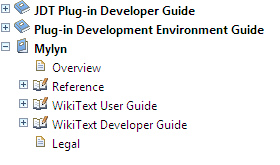
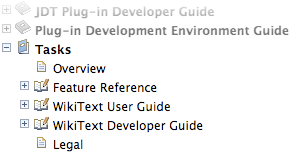
REOPENED - bug 263861: prepare New & Noteworthy for 3.1 https://bugs.eclipse.org/bugs/show_bug.cgi?id=263861

diff --git a/new/new-weekly.html b/new/new-weekly.html
@@ -20,9 +20,9 @@ before installing Mylyn 3.0.</p>
 <p><span style="font-weight: 700; background-color: #E0D0E6">New in Mylyn 3.1</span> </p>
 <ul>
 	<li><a href="#help">Mylyn Help (1)</a></li>
-	<li><a href="#task-list">Task List (4)</a></li>
+	<li><a href="#task-list">Task List (5)</a></li>
 	<li><a href="#task-editor">Task Editor (7)</a></li>
-	<li><a href="#focused-ui">Focused UI (1)</a></li>
+	<li><a href="#task-context">Task Context (1)</a></li>
 	<li><a href="#bugzilla">Bugzilla Connector (4)</a></li>
 	<li><a href="#jira">JIRA Connector (3)</a></li>
 	<li><a href="#wikitext">WikiText (5)</a></li>
@@ -36,7 +36,8 @@ before installing Mylyn 3.0.</p>
 			<p align="right"><b>Mylyn Help Integrated</b></p>
 			</td>
 			<td valign="top" width="70%">
-			<p align="left">The Mylyn wiki is a great source of information for both new users and those building upon or integrating with Mylyn. A snapshot of the online wiki is now included in Mylyn releases and is accessible from the main Eclipse Help index (Help > Help Contents > Mylyn).</p>
+			<p align="left">The Mylyn wiki is a great source of information for both new users and those building upon or integrating with Mylyn. A snapshot of the online wiki is now included in Mylyn releases and is accessible from the main Eclipse Help index (Help > Help Contents > <b>Tasks</b>).</p>
+			<p align="left">The automated inclusion of Mylyn's wiki is possible thanks to <a href="#wikitext">WikiText</a> technology.</p>
 			<p class="MsoPlainText">
 			<img border="0" src="images/3.1/mylyn-help.png"></td>
 		</tr>
@@ -53,7 +54,8 @@ before installing Mylyn 3.0.</p>
 			<p align="right"><b>Mylyn Internationalization</b></p>
 			</td>
 			<td valign="top" width="70%">
-			<p align="left">Mylyn has been internationalized and through the <a href="http://babel.eclipse.org/babel/">Eclipse Babel</a> project, users help translate Mylyn to other languages.</p>
+			<p align="left">Mylyn has been internationalized and through the <a href="http://babel.eclipse.org/babel/">Eclipse Babel</a> project, users can help translate Mylyn to other languages.</p>
+			<p align="left">Visit the <a href="http://babel.eclipse.org/babel/translate.php">Babel translate page</a>, select the target language and under Projects choose <b>tools.mylyn</b>, and then choose the latest version.</p>
 			<p class="MsoPlainText">
 			<img border="0" src="images/3.1/mylyn-i18n.png"></td>
 		</tr>
@@ -97,6 +99,24 @@ before installing Mylyn 3.0.</p>
 			new Local Subtask will be created.</p>
 			<p class="MsoPlainText">
 			<img border="0" src="images/3.1/local-subtasks.png"></td>
+		</tr>
+		<tr>
+			<td colspan="2">
+			<hr>
+			</td>
+		</tr>
+</table>
+
+
+<table cellpadding="10" cellspacing="0" id="table414">
+		<tr>
+			<td align="left" valign="top" width="15%" bgcolor=#E0D0E6>
+			<p align="right"><b>Repository Settings Page</b></p>
+			</td>
+			<td valign="top" width="70%">
+			<p align="left">The Task Repository settings page has been streamlined and now includes a Task Editor Settings section where the <a href="#wikitext">WikiText</a> dialect can be chosen for your Task Editor.</p>
+			<p class="MsoPlainText">
+			<img border="0" src="images/3.1/task-repository-settings-page.png"></td>
 		</tr>
 		<tr>
 			<td colspan="2">
@@ -156,8 +176,8 @@ before installing Mylyn 3.0.</p>
 </p>
 
     <ul>
-    <li> Confluence</li>
-    <li> MediaWiki</li>
+    <li>Confluence</li>
+    <li>MediaWiki</li>
     <li>Textile</li>
     <li>TracWiki</li>
     <li>TWiki</li>
@@ -165,9 +185,11 @@ before installing Mylyn 3.0.</p>
     </ul>
     <p>WikiText is configured on a per Task Repository basis. Choose which language you wish to use from the Editor section of the Task Repository preference page.
     </p>
+    <p align="left">Note also that text in the task editor's description and comment fields
+			will now reflow to fill available space when the editor is resized.</p>
     <p>
     	Once a laungage has been chosen, open a task from the repository and type in a comment using wiki language constructs.  Press the preview button, to see how your comment will appear to others using the WikiText support.
-    	Also note how previous comments are rendered correctly according to the wiki language you specified.  Right click on a comment and select "View Source" to see the comment in plain text.
+    	Also note how previous comments are rendered correctly according to the wiki language you specified.  Right click on a comment and select "View Unformatted Text" to see the comment in plain text.
 			<p class="MsoPlainText">
 			Authoring:<br/>
 			<img border="0" src="images/3.1/wikitext-editor-author.png"></p>
@@ -188,7 +210,7 @@ before installing Mylyn 3.0.</p>
 			<p align="right"><b>Schedule Task Toolbar Button</b></p>
 			</td>
 			<td valign="top" width="70%">
-			<p align="left">Tasks can be scheduled through the Schedule Task button in the Task List toolbar.</p>
+			<p align="left">Tasks can be scheduled through the Schedule Task button in the Task Editor toolbar. The button's default action (which results from pressing the button instead of choosing from the drop down) will schedule the task for Today.</p>
 			<p class="MsoPlainText">
 			<img border="0" src="images/3.1/taskeditor-schedule-for.png"></td>
 		</tr>
@@ -205,45 +227,10 @@ before installing Mylyn 3.0.</p>
 			<p align="right"><b>Add Tasks not in Task List</b></p>
 			</td>
 			<td valign="top" width="70%">
-			<p align="left">When a task is opened that doesn't exists in your Task List (i.e. when opening a search hit in the Search View), a hyperlinked message is displayed in the editor's banner. Click the link to add the task to your Task List.</p>
+			<p align="left">When a task is opened that doesn't exists in your Task List (i.e. when opening a search hit in the Search View), a hyperlinked message is displayed in the editor's banner. Click the link to add the task to the Uncategorized category within your Task List.</p>
+			<p align="left">We recommend adjusting the queries in the task list to encompass all tasks you are interested in so that this doesn't become a standard workflow.</p>
 			<p class="MsoPlainText">
 			<img border="0" src="images/3.1/add-task.png"></td>
-		</tr>
-		<tr>
-			<td colspan="2">
-			<hr>
-			</td>
-		</tr>
-</table>
-
-<table cellpadding="10" cellspacing="0" id="table413">
-		<tr>
-			<td align="left" valign="top" width="15%" bgcolor=#E0D0E6>
-			<p align="right"><b>Comment Text Flow</b></p>
-			</td>
-			<td valign="top" width="70%">
-			<p align="left">Text in the task editor's description and comment fields
-			now reflow to fill available space when the editor is resized.</p>
-		</tr>
-		<tr>
-			<td colspan="2">
-			<hr>
-			</td>
-		</tr>
-</table>
-
-
-<table cellpadding="10" cellspacing="0" id="table415">
-		<tr>
-			<td align="left" valign="top" width="15%" bgcolor=#E0D0E6>
-			<p align="right"><b>Task Editor Extensibility</b></p>
-			</td>
-			<td valign="top" width="70%">
-			<p align="left">The task editor has become more extensible with
-			introduction of the
-			<code>org.eclipse.mylyn.tasks.ui.taskEditorExtensions</code> and <code>org.eclipse.mylyn.tasks.ui.taskEditorExtensionSettings</code> extension points.
-			This extension point is in currently leveraged by the new Wikitext
-			integration. For example use of this extension point see org.eclipse.mylyn.wikitext.tasks.ui/plugin.xml.</p>
 		</tr>
 		<tr>
 			<td colspan="2">
@@ -290,7 +277,7 @@ before installing Mylyn 3.0.</p>
 
 
 <p class="MsoPlainText">&nbsp; </p>
-<h2><a name="focused-ui">Focused UI</a></h2>
+<h2><a name="task-context">Task Context</a></h2>
 
 <table cellpadding="10" cellspacing="0" id="table409">
 		<tr>
@@ -398,7 +385,7 @@ before installing Mylyn 3.0.</p>
 <table cellpadding="10" cellspacing="0" id="table423">
 		<tr>
 			<td align="left" valign="top" width="15%" bgcolor=#E0D0E6>
-			<p align="right"><b>Jira Worklog</b></p>
+			<p align="right"><b>JIRA Worklog</b></p>
 			</td>
 			<td valign="top" width="70%">
 			<p align="left">The JIRA worklog is now visible within the JIRA task editor when JIRA 3.12 or later is in use.</p>
@@ -494,6 +481,29 @@ before installing Mylyn 3.0.</p>
 				<img src="images/3.1/wikitext-preferences.png"/>
 			</td></tr></table>
 
+
+
+<p class="MsoPlainText">&nbsp;</p>
+<h2><a name="wikitext">Framework and API</a></h2>
+
+<table cellpadding="10" cellspacing="0" id="table415">
+		<tr>
+			<td align="left" valign="top" width="15%" bgcolor=#E0D0E6>
+			<p align="right"><b>Task Editor Extensibility</b></p>
+			</td>
+			<td valign="top" width="70%">
+			<p align="left">The task editor has become more extensible with
+			introduction of the
+			<code>org.eclipse.mylyn.tasks.ui.taskEditorExtensions</code> and <code>org.eclipse.mylyn.tasks.ui.taskEditorExtensionSettings</code> extension points.
+			This extension point is currently leveraged by the new WikiText
+			integration. For example use of this extension point see org.eclipse.mylyn.wikitext.tasks.ui/plugin.xml.</p>
+		</tr>
+		<tr>
+			<td colspan="2">
+			<hr>
+			</td>
+		</tr>
+</table>
 
 </body>
 </html>
